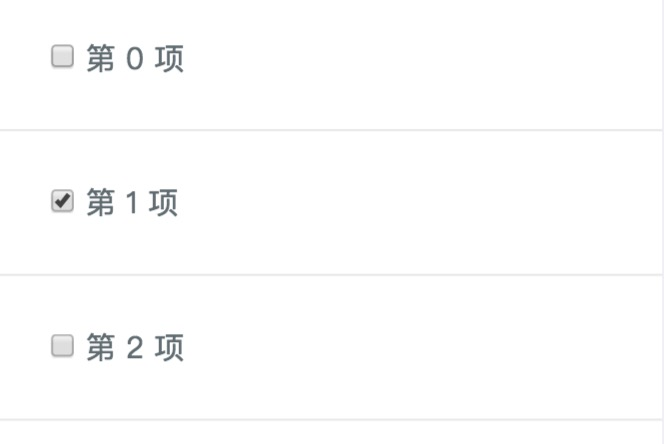
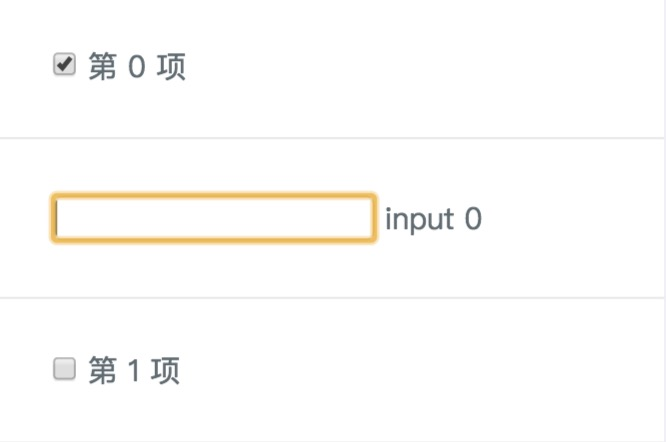
add input

Changed region(s): [[0.0602, 0.4118, 0.7229, 0.5588], [0.0602, 0.7353, 0.2711, 0.8824], [0.0602, 0.0882, 0.3012, 0.1765]]

diff --git a/example/pages/form-list/index.vue b/example/pages/form-list/index.vue
@@ -1,12 +1,18 @@
 <template>
   <page class="form-list-view" :title="$t('examples.formList')" :desc="$t('formListPage.desc')">
     <div slot="content">
-      <scroll ref="scroll" :click="options.click" :tap="options.tap">
+      <scroll ref="scroll" :click="options.click" :tap="options.tap" :listenBeforeScroll="options.listenBeforeScroll" @beforeScrollStart="beforeScrollStart">
         <ul class="content" ref="formList">
-          <li v-for="(item, index) in items" @click="click">
-            <input type="checkbox" :value="index" v-model="checkedItems">
-            <label>{{ $t('formListPage.previousTxt') + index + $t('formListPage.followingTxt') }}</label>
-          </li>
+          <template v-for="(item, index) in items">
+            <li>
+              <input type="checkbox" :value="index" v-model="checkedItems">
+              <label>{{ $t('formListPage.previousTxt') + index + $t('formListPage.followingTxt') }}</label>
+            </li>
+            <li>
+              <input class="text-input" type="text" @focus="focusHandle(index)" @blur="blurHandle(index)">
+              <span>input {{ index }}</span>
+            </li>
+          </template>
         </ul>
       </scroll>
     </div>
@@ -22,9 +28,10 @@
       return {
         options: {
           click: false,
-          tap: true
+          tap: true,
+          listenBeforeScroll: true // 用于input blur
         },
-        items: Array(20),
+        items: Array(10),
         checkedItems: []
       }
     },
@@ -34,7 +41,6 @@
     },
     mounted() {
       let labelList = this.$refs.formList.querySelectorAll('label')
-      console.log(labelList)
       labelList.forEach((item, index) => {
         item.addEventListener('tap', () => {
           console.log('tap item', index)
@@ -44,8 +50,18 @@
       })
     },
     methods: {
-      click() {
-        console.log('click item')
+      // 用于input blur
+      beforeScrollStart() {
+        let inputList = this.$refs.formList.querySelectorAll('.text-input')
+        inputList.forEach((item) => {
+          item.blur()
+        })
+      },
+      focusHandle(index) {
+        console.log(`input ${index}: focus`)
+      },
+      blurHandle(index) {
+        console.log(`input ${index}: blur`)
       }
     }
   }
@@ -57,4 +73,7 @@
       li
         padding: 30px
         border-bottom: 1px solid #e5e5e5
+        .text-input
+          border: 1px solid #e5e5e5
+          border-radius: 3px
 </style>
